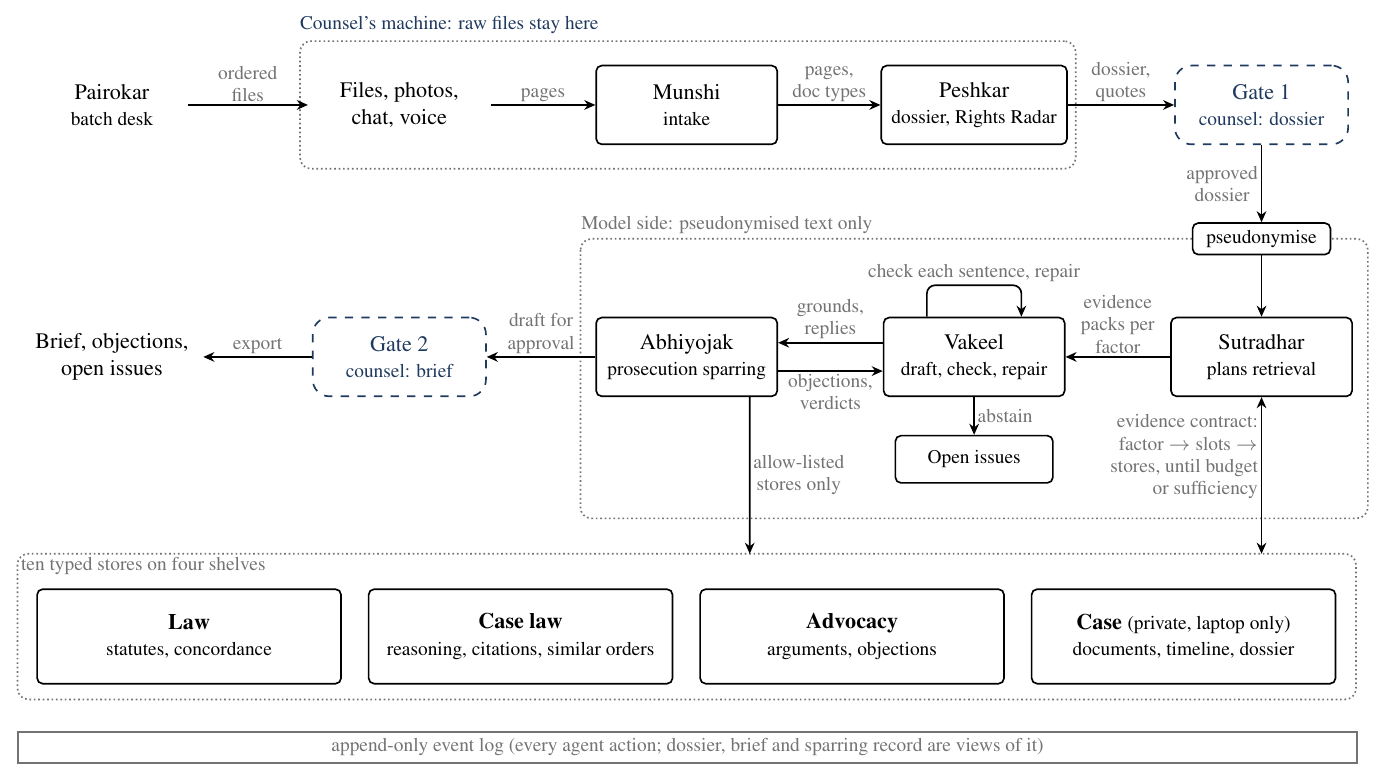
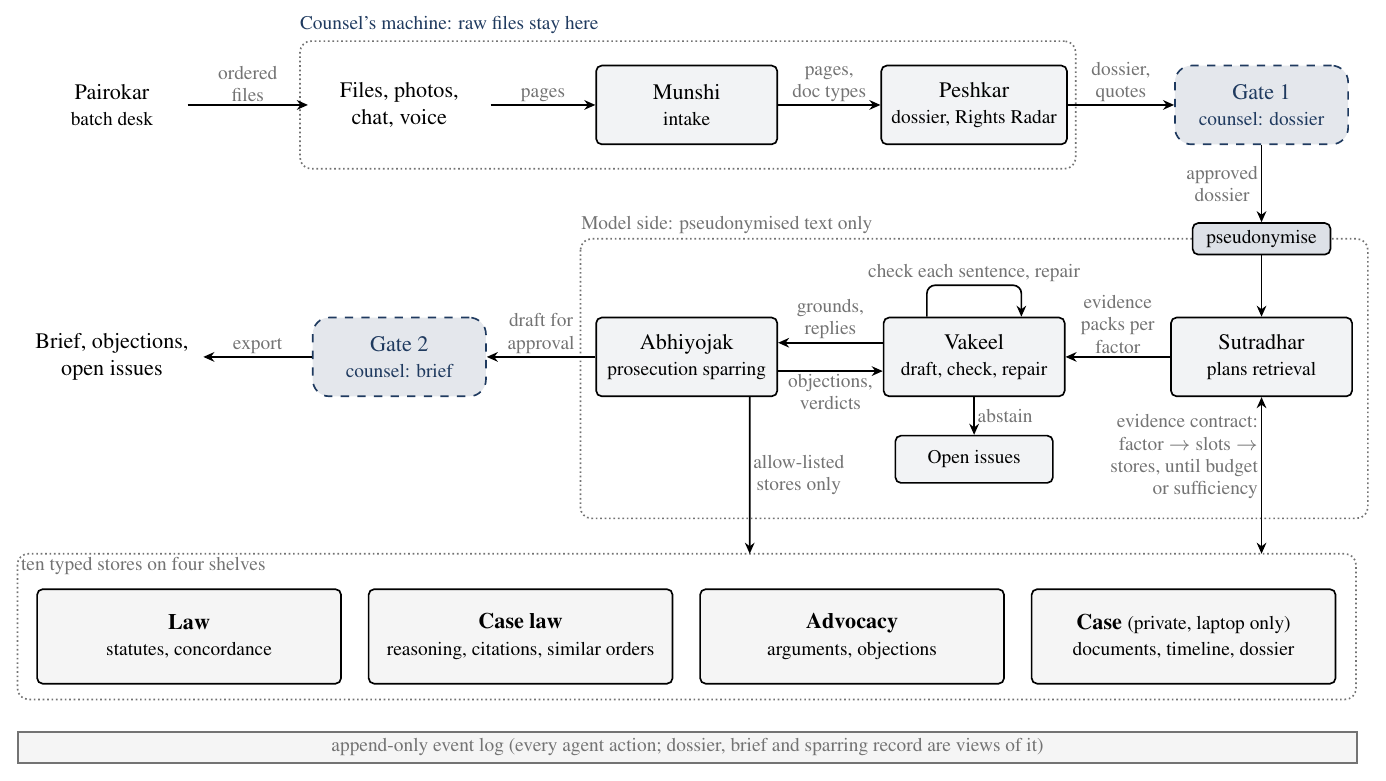
Architecture figure: light fills (agents, gates, shelves, pseudonymise box, event log)

Changed region(s): [[0.8377, 0.0615, 0.9928, 0.1844], [0.2172, 0.3995, 0.3723, 0.5224], [0.8377, 0.2766, 0.9618, 0.338]]

diff --git a/docs/assets/architecture.tex b/docs/assets/architecture.tex
@@ -12,10 +12,10 @@
 \begin{document}
 \begin{tikzpicture}[
   font=\fontsize{8}{9.5}\selectfont, >={Stealth[length=4pt,width=3.5pt]}, line width=0.6pt,
-  ag/.style={draw, rounded corners=2pt, align=center, minimum width=2.3cm, minimum height=1.0cm},
-  gt/.style={draw=acc, text=acc, dashed, rounded corners=6pt, align=center, minimum width=2.2cm, minimum height=1.0cm},
+  ag/.style={draw, fill=acc!6, rounded corners=2pt, align=center, minimum width=2.3cm, minimum height=1.0cm},
+  gt/.style={draw=acc, fill=acc!12, text=acc, dashed, rounded corners=6pt, align=center, minimum width=2.2cm, minimum height=1.0cm},
   io/.style={align=center, minimum width=2.3cm, minimum height=1.0cm},
-  sh/.style={draw, rounded corners=2pt, align=center, minimum width=3.86cm, minimum height=1.2cm},
+  sh/.style={draw, fill=black!4, rounded corners=2pt, align=center, minimum width=3.86cm, minimum height=1.2cm},
   lb/.style={font=\fontsize{7}{8}\selectfont, text=black!55, align=center, inner sep=1pt},
   fr/.style={draw=black!55, densely dotted, rounded corners=4pt}]
 % top lane (counsel's machine)
@@ -37,7 +37,7 @@
 \node[lb, anchor=south west, text=acc, inner sep=0pt] at ([yshift=2pt]lap.north west) {Counsel's machine: raw files stay here};
 \node[lb, anchor=south west, inner sep=0pt] at (5.95,-1.65) {Model side: pseudonymised text only};
 % pseudonymisation crossing
-\node[draw, fill=white, rounded corners=2pt, minimum width=1.75cm, minimum height=0.4cm, inner sep=1pt] (ps) at (14.6,-1.7) {\sm{pseudonymise}};
+\node[draw, fill=acc!15, rounded corners=2pt, minimum width=1.75cm, minimum height=0.4cm, inner sep=1pt] (ps) at (14.6,-1.7) {\sm{pseudonymise}};
 % stores: four shelves
 \draw[fr] (-1.2,-5.7) rectangle (15.8,-7.55);
 \node[lb, anchor=north west] at (-1.2,-5.7) {ten typed stores on four shelves};
@@ -45,7 +45,7 @@
 \node[sh] (s2) at (5.19,-6.75) {\textbf{Case law}\\\sm{reasoning, citations, similar orders}};
 \node[sh] (s3) at (9.40,-6.75) {\textbf{Advocacy}\\\sm{arguments, objections}};
 \node[sh] (s4) at (13.61,-6.75) {\textbf{Case} \sm{(private, laptop only)}\\\sm{documents, timeline, dossier}};
-\node[draw=black!55, minimum width=17cm, minimum height=0.4cm, anchor=north west, inner sep=0pt] (lg) at (-1.2,-7.95) {\sm{\color{black!55}append-only event log (every agent action; dossier, brief and sparring record are views of it)}};
+\node[draw=black!55, fill=black!4, minimum width=17cm, minimum height=0.4cm, anchor=north west, inner sep=0pt] (lg) at (-1.2,-7.95) {\sm{\color{black!55}append-only event log (every agent action; dossier, brief and sparring record are views of it)}};
 % flow arrows
 \draw[->] (pa) -- node[lb, above] {ordered\\files} (in);
 \draw[->] (in) -- node[lb, above] {pages} (mu);
